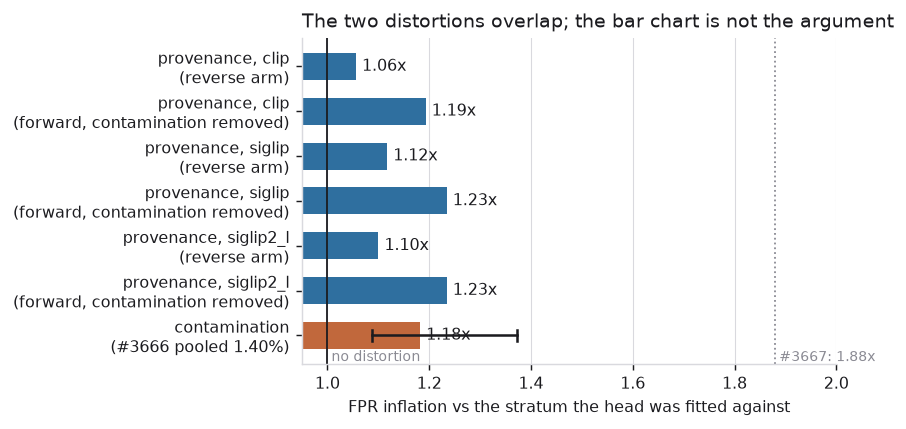
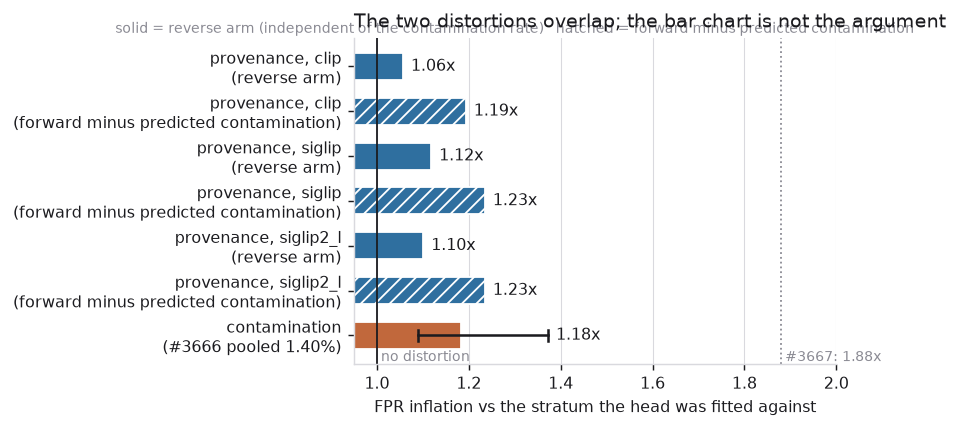
figures_3670: stop the review panel's labels colliding (#3670)
Claude-Session: https://claude.ai/code/session_01FAnc7gMSFh43SCLGBM3zCv

diff --git a/scripts/experiments/pile/figures_3670.py b/scripts/experiments/pile/figures_3670.py
@@ -198,14 +198,18 @@ def fig_review(coverage: dict, path: Path) -> None:
             color="#dcdce2",
             label="ineligible by rule",
         )
+        top = max(coverage["compositions"][c]["populations"][pop]["reviewed"] for c in comps)
         for i, c in enumerate(comps):
             row = coverage["compositions"][c]["populations"][pop]
-            ax.text(i, row["reviewed"] * 1.02, f"{row['coverage']:.0%}", ha="center", fontsize=9, color=INK)
-        ax.set_title(pop, fontsize=9.5, color=INK)
+            ax.text(i, row["reviewed"] + top * 0.03, f"{row['coverage']:.0%}", ha="center", fontsize=9, color=INK)
+        # Headroom for the percentage labels, so they never meet the title.
+        ax.set_ylim(0, top * 1.18)
+        ax.set_title(pop, fontsize=9.5, color=INK, pad=22)
         ax.grid(axis="y", color=GRID, lw=0.6)
         _frame(ax)
     axes[0].set_ylabel("human judgements", fontsize=9, color=INK)
-    axes[0].legend(fontsize=7.5, frameon=False, loc="center left")
+    handles, labels = axes[0].get_legend_handles_labels()
+    fig.legend(handles, labels, fontsize=8, frameon=False, ncol=4, loc="lower center", bbox_to_anchor=(0.5, -0.06))
     fig.suptitle(
         "`provable` spends two thirds of the review and loses none of the rest "
         "(% = coverage of what the rule can hold)",
@@ -214,7 +218,7 @@ def fig_review(coverage: dict, path: Path) -> None:
         x=0.01,
         ha="left",
     )
-    fig.tight_layout()
+    fig.tight_layout(rect=(0, 0.02, 1, 0.94))
     fig.savefig(path, bbox_inches="tight")
     plt.close(fig)
 
